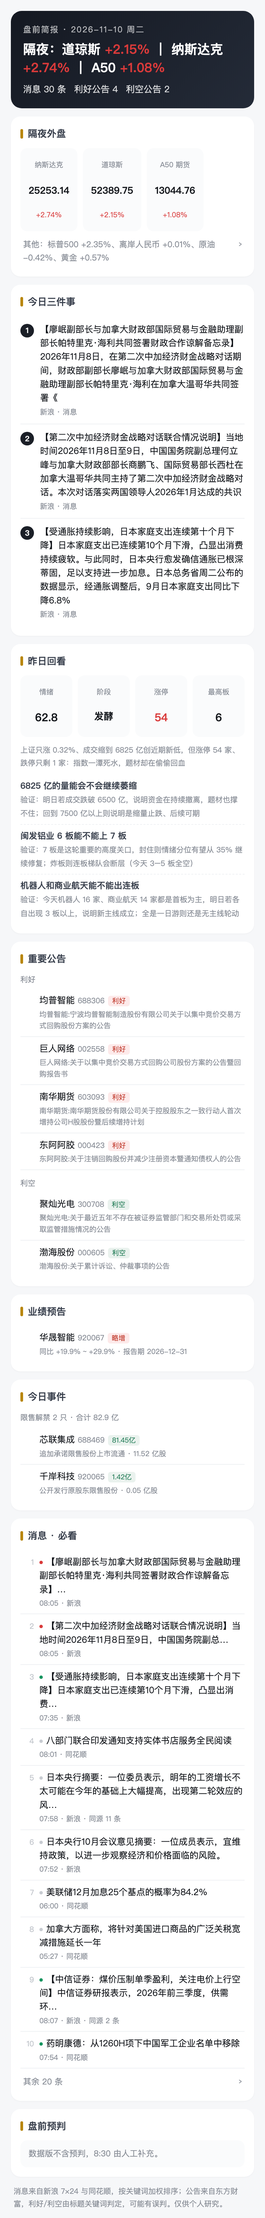
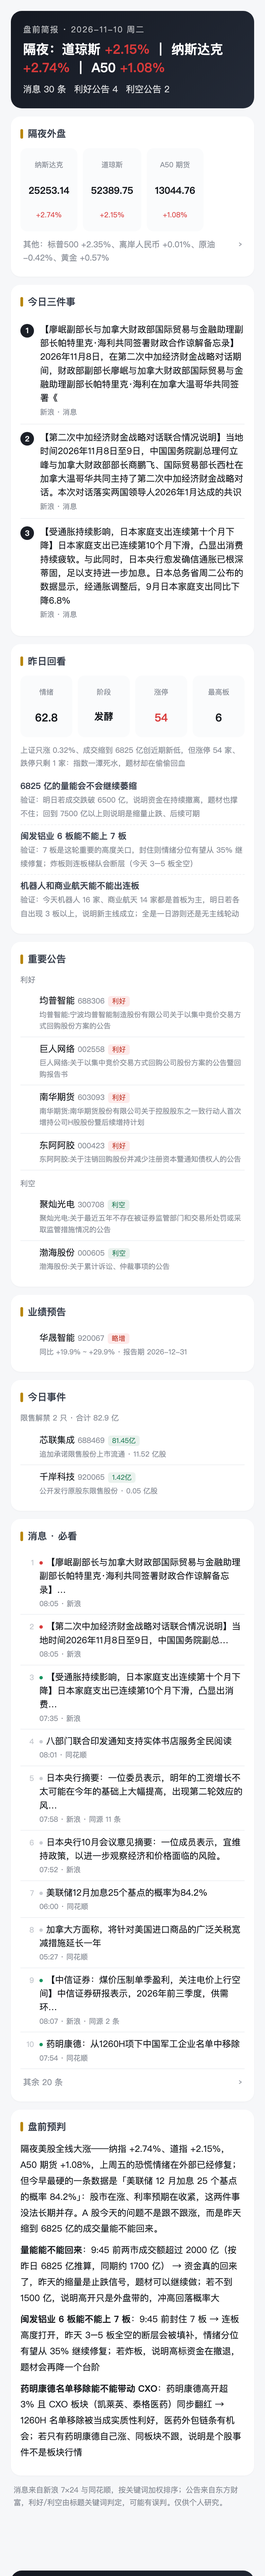
report: 2026-11-09

Changed region(s): [[0.0308, 0.0, 0.9538, 1.0], [0.8615, 0.4675, 0.8923, 0.4987], [0.7385, 0.4675, 0.7692, 0.4987]]

diff --git a/pre/2026-11-10/2026-11-10-盘前.html b/pre/2026-11-10/2026-11-10-盘前.html
@@ -57,4 +57,4 @@ padding:9px 16px;font-size:12.5px;max-width:560px;margin:0 auto}
 .nav a{color:#8a8f98;text-decoration:none;white-space:nowrap}
 .nav a.on{color:#1b1f27;font-weight:700}
 .nav a.home{color:#b8860b;font-weight:600}
-</style><link rel="manifest" href="/a-share-review/manifest.webmanifest"><meta name="theme-color" content="#1b1f27"><meta name="apple-mobile-web-app-capable" content="yes"><meta name="apple-mobile-web-app-status-bar-style" content="black-translucent"><meta name="apple-mobile-web-app-title" content="A股复盘"><link rel="apple-touch-icon" href="/a-share-review/icon-192.png"></head><body><div class="nav"><a class="home" href="../../index.html">⌂ 首页</a><a class="on" href="../../pre/index.html">盘前简报</a></div><div class="wrap"><div class="hero"><div class="d">盘前简报 · 2026-11-10 周二</div><h1>隔夜：道琼斯 <b class="up">+2.15%</b> ｜ 纳斯达克 <b class="up">+2.74%</b> ｜ A50 <b class="up">+1.08%</b></h1><div class="sum"><span>消息 30 条</span><span>利好公告 4</span><span>利空公告 2</span></div></div><div class="card"><h2>隔夜外盘</h2><div class="ov"><div><div class="n">纳斯达克</div><div class="v">25253.14</div><div class="p up">+2.74%</div></div><div><div class="n">道琼斯</div><div class="v">52389.75</div><div class="p up">+2.15%</div></div><div><div class="n">A50 期货</div><div class="v">13044.76</div><div class="p up">+1.08%</div></div></div><details class="more"><summary><span>其他：标普500 +2.35%、离岸人民币 +0.01%、原油 -0.42%、黄金 +0.57%</span><span class="arw">›</span></summary><div class="ov" style="margin-top:8px"><div><div class="n">标普500</div><div class="v">7549.94</div><div class="p up">+2.35%</div></div><div><div class="n">离岸人民币</div><div class="v">6.67</div><div class="p up">+0.01%</div></div><div><div class="n">原油</div><div class="v">86.48</div><div class="p down">-0.42%</div></div><div><div class="n">黄金</div><div class="v">4137.96</div><div class="p up">+0.57%</div></div></div></details></div><div class="card"><h2>今日三件事</h2><div class="t3"><div class="n">1</div><div><div class="t">【廖岷副部长与加拿大财政部国际贸易与金融助理副部长帕特里克·海利共同签署财政合作谅解备忘录】2026年11月8日，在第二次中加经济财金战略对话期间，财政部副部长廖岷与加拿大财政部国际贸易与金融助理副部长帕特里克·海利在加拿大温哥华共同签署《</div><div class="s">新浪 · 消息</div></div></div><div class="t3"><div class="n">2</div><div><div class="t">【第二次中加经济财金战略对话联合情况说明】当地时间2026年11月8日至9日，中国国务院副总理何立峰与加拿大财政部部长商鹏飞、国际贸易部长西杜在加拿大温哥华共同主持了第二次中加经济财金战略对话。本次对话落实两国领导人2026年1月达成的共识</div><div class="s">新浪 · 消息</div></div></div><div class="t3"><div class="n">3</div><div><div class="t">【受通胀持续影响，日本家庭支出连续第十个月下降】日本家庭支出已连续第10个月下滑，凸显出消费持续疲软。与此同时，日本央行愈发确信通胀已根深蒂固，足以支持进一步加息。日本总务省周二公布的数据显示，经通胀调整后，9月日本家庭支出同比下降6.8%</div><div class="s">新浪 · 消息</div></div></div></div><div class="card"><h2>昨日回看</h2><div class="kv"><div><div class="n">情绪</div><div class="v">62.8</div></div><div><div class="n">阶段</div><div class="v" style="font-size:14px">发酵</div></div><div><div class="n">涨停</div><div class="v up">54</div></div><div><div class="n">最高板</div><div class="v">6</div></div></div><div class="note" style="margin-bottom:8px">上证只涨 0.32%、成交缩到 6825 亿创近期新低，但涨停 54 家、跌停只剩 1 家：指数一潭死水，题材却在偷偷回血</div><div class="watch"><b>6825 亿的量能会不会继续萎缩</b><br><span class="note">验证：明日若成交跌破 6500 亿，说明资金在持续撤离，题材也撑不住；回到 7500 亿以上则说明是缩量止跌、后续可期</span></div><div class="watch"><b>闽发铝业 6 板能不能上 7 板</b><br><span class="note">验证：7 板是这轮重要的高度关口，封住则情绪分位有望从 35% 继续修复；炸板则连板梯队会断层（今天 3–5 板全空）</span></div><div class="watch"><b>机器人和商业航天能不能出连板</b><br><span class="note">验证：今天机器人 16 家、商业航天 14 家都是首板为主，明日若各自出现 3 板以上，说明新主线成立；全是一日游则还是无主线轮动</span></div></div><div class="card"><h2>重要公告</h2><div class="note" style="margin-bottom:4px">利好</div><div class="item"><div class="no"></div><div class="b"><div class="t">均普智能 <span class="mut" style="font-size:11px">688306</span><span class="tag tag-good">利好</span></div><div class="m">均普智能:宁波均普智能制造股份有限公司关于以集中竞价交易方式回购股份方案的公告</div></div></div><div class="item"><div class="no"></div><div class="b"><div class="t">巨人网络 <span class="mut" style="font-size:11px">002558</span><span class="tag tag-good">利好</span></div><div class="m">巨人网络:关于以集中竞价交易方式回购公司股份方案的公告暨回购报告书</div></div></div><div class="item"><div class="no"></div><div class="b"><div class="t">南华期货 <span class="mut" style="font-size:11px">603093</span><span class="tag tag-good">利好</span></div><div class="m">南华期货:南华期货股份有限公司关于控股股东之一致行动人首次增持公司H股股份暨后续增持计划</div></div></div><div class="item"><div class="no"></div><div class="b"><div class="t">东阿阿胶 <span class="mut" style="font-size:11px">000423</span><span class="tag tag-good">利好</span></div><div class="m">东阿阿胶:关于注销回购股份并减少注册资本暨通知债权人的公告</div></div></div><div class="note" style="margin:10px 0 4px">利空</div><div class="item"><div class="no"></div><div class="b"><div class="t">聚灿光电 <span class="mut" style="font-size:11px">300708</span><span class="tag tag-bad">利空</span></div><div class="m">聚灿光电:关于最近五年不存在被证券监管部门和交易所处罚或采取监管措施情况的公告</div></div></div><div class="item"><div class="no"></div><div class="b"><div class="t">渤海股份 <span class="mut" style="font-size:11px">000605</span><span class="tag tag-bad">利空</span></div><div class="m">渤海股份:关于累计诉讼、仲裁事项的公告</div></div></div></div><div class="card"><h2>业绩预告</h2><div class="item"><div class="no"></div><div class="b"><div class="t">华晟智能 <span class="mut" style="font-size:11px">920067</span><span class="tag tag-good">略增</span></div><div class="m">同比 +19.9% ~ +29.9% · 报告期 2026-12-31</div></div></div></div><div class="card"><h2>今日事件</h2><div class="note" style="margin-bottom:6px">限售解禁 2 只 · 合计 82.9 亿</div><div class="item"><div class="no"></div><div class="b"><div class="t">芯联集成 <span class="mut" style="font-size:11px">688469</span><span class="tag tag-bad">81.45亿</span></div><div class="m">追加承诺限售股份上市流通 · 11.52 亿股</div></div></div><div class="item"><div class="no"></div><div class="b"><div class="t">千岸科技 <span class="mut" style="font-size:11px">920065</span><span class="tag tag-bad">1.42亿</span></div><div class="m">公开发行原股东限售股份 · 0.05 亿股</div></div></div></div><div class="card"><h2>消息 · 必看</h2><div class="item"><div class="no">1</div><div class="b"><div class="t"><span class="dot g"></span>【廖岷副部长与加拿大财政部国际贸易与金融助理副部长帕特里克·海利共同签署财政合作谅解备忘录】…</div><div class="m">08:05 · 新浪</div></div></div><div class="item"><div class="no">2</div><div class="b"><div class="t"><span class="dot g"></span>【第二次中加经济财金战略对话联合情况说明】当地时间2026年11月8日至9日，中国国务院副总…</div><div class="m">08:05 · 新浪</div></div></div><div class="item"><div class="no">3</div><div class="b"><div class="t"><span class="dot b2"></span>【受通胀持续影响，日本家庭支出连续第十个月下降】日本家庭支出已连续第10个月下滑，凸显出消费…</div><div class="m">07:35 · 新浪</div></div></div><div class="item"><div class="no">4</div><div class="b"><div class="t"><span class="dot n"></span>八部门联合印发通知支持实体书店服务全民阅读</div><div class="m">08:01 · 同花顺</div></div></div><div class="item"><div class="no">5</div><div class="b"><div class="t"><span class="dot n"></span>日本央行摘要：一位委员表示，明年的工资增长不太可能在今年的基础上大幅提高，出现第二轮效应的风…</div><div class="m">07:58 · 新浪 · 同源 11 条</div></div></div><div class="item"><div class="no">6</div><div class="b"><div class="t"><span class="dot n"></span>日本央行10月会议意见摘要：一位成员表示，宜维持政策，以进一步观察经济和价格面临的风险。</div><div class="m">07:52 · 新浪</div></div></div><div class="item"><div class="no">7</div><div class="b"><div class="t"><span class="dot n"></span>美联储12月加息25个基点的概率为84.2%</div><div class="m">06:00 · 同花顺</div></div></div><div class="item"><div class="no">8</div><div class="b"><div class="t"><span class="dot n"></span>加拿大方面称，将针对美国进口商品的广泛关税宽减措施延长一年</div><div class="m">05:27 · 同花顺</div></div></div><div class="item"><div class="no">9</div><div class="b"><div class="t"><span class="dot b2"></span>【中信证券：煤价压制单季盈利，关注电价上行空间】中信证券研报表示，2026年前三季度，供需环…</div><div class="m">08:07 · 新浪 · 同源 2 条</div></div></div><div class="item"><div class="no">10</div><div class="b"><div class="t"><span class="dot b2"></span>药明康德：从1260H项下中国军工企业名单中移除</div><div class="m">07:54 · 同花顺</div></div></div><details class="more"><summary><span>其余 20 条</span><span class="arw">›</span></summary><div class="item"><div class="no">11</div><div class="b"><div class="t"><span class="dot g"></span>新材料订单撑起利润韧性 “中原制造”锻造新增长支点</div><div class="m">07:28 · 同花顺</div></div></div><div class="item"><div class="no">12</div><div class="b"><div class="t"><span class="dot g"></span>QFII优化持仓 配置指向产业升级</div><div class="m">07:14 · 同花顺</div></div></div><div class="item"><div class="no">13</div><div class="b"><div class="t"><span class="dot g"></span>剑桥科技回应“砍单”传闻 称已为明年大批量交付做好准备</div><div class="m">06:12 · 同花顺</div></div></div><div class="item"><div class="no">14</div><div class="b"><div class="t"><span class="dot g"></span>回购增持接力稳市 AI产业链公司频出手</div><div class="m">06:08 · 同花顺</div></div></div><div class="item"><div class="no">15</div><div class="b"><div class="t"><span class="dot g"></span>泛林集团获批250亿美元股票回购计划，宣布每股0.33美元季度股息</div><div class="m">05:17 · 同花顺</div></div></div><div class="item"><div class="no">16</div><div class="b"><div class="t"><span class="dot g"></span>互换便利操作说干就干 多家券商完成首批股票买入</div><div class="m">06:10 · 同花顺</div></div></div><div class="item"><div class="no">17</div><div class="b"><div class="t"><span class="dot n"></span>【中金公司：卡位交互入口，Agent时代硬件迎创新机遇】中金公司研报表示，随着个人Agent…</div><div class="m">08:14 · 新浪</div></div></div><div class="item"><div class="no">18</div><div class="b"><div class="t"><span class="dot n"></span>Anthropic将冲刺下周IPO</div><div class="m">07:54 · 同花顺</div></div></div><div class="item"><div class="no">19</div><div class="b"><div class="t"><span class="dot n"></span>美股收评：美股三大指数集体收涨</div><div class="m">05:00 · 同花顺</div></div></div><div class="item"><div class="no">20</div><div class="b"><div class="t"><span class="dot g"></span>埃克森美孚公司表示，已签署谅解备忘录，以评估与委内瑞拉及委内瑞拉国家石油公司（PDVSA）的…</div><div class="m">07:50 · 新浪</div></div></div><div class="item"><div class="no">21</div><div class="b"><div class="t"><span class="dot g"></span>中证报：公开市场灵活“削峰填谷”，呵护流动性充裕</div><div class="m">06:48 · 同花顺</div></div></div><div class="item"><div class="no">22</div><div class="b"><div class="t"><span class="dot b2"></span>英国最大水务企业推出新一轮债务融资以自救</div><div class="m">05:49 · 同花顺</div></div></div><div class="item"><div class="no">23</div><div class="b"><div class="t"><span class="dot g"></span>数字技术撬动汽车消费服务产业链</div><div class="m">05:44 · 同花顺</div></div></div><div class="item"><div class="no">24</div><div class="b"><div class="t"><span class="dot b2"></span>特朗普媒体与科技集团第三财季营收为300万美元，调整后EBITDA亏损1230万美元</div><div class="m">05:12 · 同花顺</div></div></div><div class="item"><div class="no">25</div><div class="b"><div class="t"><span class="dot b2"></span>Hims &amp; Hers Health预计全财年营收为31.3亿至31.5亿美元</div><div class="m">05:11 · 同花顺</div></div></div><div class="item"><div class="no">26</div><div class="b"><div class="t"><span class="dot b2"></span>Rocket Lab预计第四财季营收为2.7亿至2.9亿美元</div><div class="m">05:09 · 同花顺</div></div></div><div class="item"><div class="no">27</div><div class="b"><div class="t"><span class="dot b2"></span>AMC Global Media第三财季净营收5.661亿美元</div><div class="m">05:08 · 同花顺</div></div></div><div class="item"><div class="no">28</div><div class="b"><div class="t"><span class="dot b2"></span>Lucid第三财季调整后每股亏损为2.30美元</div><div class="m">05:08 · 同花顺</div></div></div><div class="item"><div class="no">29</div><div class="b"><div class="t"><span class="dot n"></span>软银等日本芯片股上涨，涨幅一度达到12%。</div><div class="m">08:18 · 新浪</div></div></div><div class="item"><div class="no">30</div><div class="b"><div class="t"><span class="dot n"></span>【中信建投：高油价和AI带动下新能源高景气仍将持续】中信建投研报表示，26年在储能、AIDC…</div><div class="m">08:13 · 新浪</div></div></div></details></div><div class="card"><h2>盘前预判</h2><div class="empty">数据版不含预判，8:30 由人工补充。</div></div><div class="note" style="padding:0 4px">消息来自新浪 7×24 与同花顺，按关键词加权排序；公告来自东方财富，利好/利空由标题关键词判定，可能有误判。仅供个人研究。</div></div></body></html>
+</style><link rel="manifest" href="/a-share-review/manifest.webmanifest"><meta name="theme-color" content="#1b1f27"><meta name="apple-mobile-web-app-capable" content="yes"><meta name="apple-mobile-web-app-status-bar-style" content="black-translucent"><meta name="apple-mobile-web-app-title" content="A股复盘"><link rel="apple-touch-icon" href="/a-share-review/icon-192.png"></head><body><div class="nav"><a class="home" href="../../index.html">⌂ 首页</a><a class="on" href="../../pre/index.html">盘前简报</a></div><div class="wrap"><div class="hero"><div class="d">盘前简报 · 2026-11-10 周二</div><h1>隔夜：道琼斯 <b class="up">+2.15%</b> ｜ 纳斯达克 <b class="up">+2.74%</b> ｜ A50 <b class="up">+1.08%</b></h1><div class="sum"><span>消息 30 条</span><span>利好公告 4</span><span>利空公告 2</span></div></div><div class="card"><h2>隔夜外盘</h2><div class="ov"><div><div class="n">纳斯达克</div><div class="v">25253.14</div><div class="p up">+2.74%</div></div><div><div class="n">道琼斯</div><div class="v">52389.75</div><div class="p up">+2.15%</div></div><div><div class="n">A50 期货</div><div class="v">13044.76</div><div class="p up">+1.08%</div></div></div><details class="more"><summary><span>其他：标普500 +2.35%、离岸人民币 +0.01%、原油 -0.42%、黄金 +0.57%</span><span class="arw">›</span></summary><div class="ov" style="margin-top:8px"><div><div class="n">标普500</div><div class="v">7549.94</div><div class="p up">+2.35%</div></div><div><div class="n">离岸人民币</div><div class="v">6.67</div><div class="p up">+0.01%</div></div><div><div class="n">原油</div><div class="v">86.48</div><div class="p down">-0.42%</div></div><div><div class="n">黄金</div><div class="v">4137.96</div><div class="p up">+0.57%</div></div></div></details></div><div class="card"><h2>今日三件事</h2><div class="t3"><div class="n">1</div><div><div class="t">【廖岷副部长与加拿大财政部国际贸易与金融助理副部长帕特里克·海利共同签署财政合作谅解备忘录】2026年11月8日，在第二次中加经济财金战略对话期间，财政部副部长廖岷与加拿大财政部国际贸易与金融助理副部长帕特里克·海利在加拿大温哥华共同签署《</div><div class="s">新浪 · 消息</div></div></div><div class="t3"><div class="n">2</div><div><div class="t">【第二次中加经济财金战略对话联合情况说明】当地时间2026年11月8日至9日，中国国务院副总理何立峰与加拿大财政部部长商鹏飞、国际贸易部长西杜在加拿大温哥华共同主持了第二次中加经济财金战略对话。本次对话落实两国领导人2026年1月达成的共识</div><div class="s">新浪 · 消息</div></div></div><div class="t3"><div class="n">3</div><div><div class="t">【受通胀持续影响，日本家庭支出连续第十个月下降】日本家庭支出已连续第10个月下滑，凸显出消费持续疲软。与此同时，日本央行愈发确信通胀已根深蒂固，足以支持进一步加息。日本总务省周二公布的数据显示，经通胀调整后，9月日本家庭支出同比下降6.8%</div><div class="s">新浪 · 消息</div></div></div></div><div class="card"><h2>昨日回看</h2><div class="kv"><div><div class="n">情绪</div><div class="v">62.8</div></div><div><div class="n">阶段</div><div class="v" style="font-size:14px">发酵</div></div><div><div class="n">涨停</div><div class="v up">54</div></div><div><div class="n">最高板</div><div class="v">6</div></div></div><div class="note" style="margin-bottom:8px">上证只涨 0.32%、成交缩到 6825 亿创近期新低，但涨停 54 家、跌停只剩 1 家：指数一潭死水，题材却在偷偷回血</div><div class="watch"><b>6825 亿的量能会不会继续萎缩</b><br><span class="note">验证：明日若成交跌破 6500 亿，说明资金在持续撤离，题材也撑不住；回到 7500 亿以上则说明是缩量止跌、后续可期</span></div><div class="watch"><b>闽发铝业 6 板能不能上 7 板</b><br><span class="note">验证：7 板是这轮重要的高度关口，封住则情绪分位有望从 35% 继续修复；炸板则连板梯队会断层（今天 3–5 板全空）</span></div><div class="watch"><b>机器人和商业航天能不能出连板</b><br><span class="note">验证：今天机器人 16 家、商业航天 14 家都是首板为主，明日若各自出现 3 板以上，说明新主线成立；全是一日游则还是无主线轮动</span></div></div><div class="card"><h2>重要公告</h2><div class="note" style="margin-bottom:4px">利好</div><div class="item"><div class="no"></div><div class="b"><div class="t">均普智能 <span class="mut" style="font-size:11px">688306</span><span class="tag tag-good">利好</span></div><div class="m">均普智能:宁波均普智能制造股份有限公司关于以集中竞价交易方式回购股份方案的公告</div></div></div><div class="item"><div class="no"></div><div class="b"><div class="t">巨人网络 <span class="mut" style="font-size:11px">002558</span><span class="tag tag-good">利好</span></div><div class="m">巨人网络:关于以集中竞价交易方式回购公司股份方案的公告暨回购报告书</div></div></div><div class="item"><div class="no"></div><div class="b"><div class="t">南华期货 <span class="mut" style="font-size:11px">603093</span><span class="tag tag-good">利好</span></div><div class="m">南华期货:南华期货股份有限公司关于控股股东之一致行动人首次增持公司H股股份暨后续增持计划</div></div></div><div class="item"><div class="no"></div><div class="b"><div class="t">东阿阿胶 <span class="mut" style="font-size:11px">000423</span><span class="tag tag-good">利好</span></div><div class="m">东阿阿胶:关于注销回购股份并减少注册资本暨通知债权人的公告</div></div></div><div class="note" style="margin:10px 0 4px">利空</div><div class="item"><div class="no"></div><div class="b"><div class="t">聚灿光电 <span class="mut" style="font-size:11px">300708</span><span class="tag tag-bad">利空</span></div><div class="m">聚灿光电:关于最近五年不存在被证券监管部门和交易所处罚或采取监管措施情况的公告</div></div></div><div class="item"><div class="no"></div><div class="b"><div class="t">渤海股份 <span class="mut" style="font-size:11px">000605</span><span class="tag tag-bad">利空</span></div><div class="m">渤海股份:关于累计诉讼、仲裁事项的公告</div></div></div></div><div class="card"><h2>业绩预告</h2><div class="item"><div class="no"></div><div class="b"><div class="t">华晟智能 <span class="mut" style="font-size:11px">920067</span><span class="tag tag-good">略增</span></div><div class="m">同比 +19.9% ~ +29.9% · 报告期 2026-12-31</div></div></div></div><div class="card"><h2>今日事件</h2><div class="note" style="margin-bottom:6px">限售解禁 2 只 · 合计 82.9 亿</div><div class="item"><div class="no"></div><div class="b"><div class="t">芯联集成 <span class="mut" style="font-size:11px">688469</span><span class="tag tag-bad">81.45亿</span></div><div class="m">追加承诺限售股份上市流通 · 11.52 亿股</div></div></div><div class="item"><div class="no"></div><div class="b"><div class="t">千岸科技 <span class="mut" style="font-size:11px">920065</span><span class="tag tag-bad">1.42亿</span></div><div class="m">公开发行原股东限售股份 · 0.05 亿股</div></div></div></div><div class="card"><h2>消息 · 必看</h2><div class="item"><div class="no">1</div><div class="b"><div class="t"><span class="dot g"></span>【廖岷副部长与加拿大财政部国际贸易与金融助理副部长帕特里克·海利共同签署财政合作谅解备忘录】…</div><div class="m">08:05 · 新浪</div></div></div><div class="item"><div class="no">2</div><div class="b"><div class="t"><span class="dot g"></span>【第二次中加经济财金战略对话联合情况说明】当地时间2026年11月8日至9日，中国国务院副总…</div><div class="m">08:05 · 新浪</div></div></div><div class="item"><div class="no">3</div><div class="b"><div class="t"><span class="dot b2"></span>【受通胀持续影响，日本家庭支出连续第十个月下降】日本家庭支出已连续第10个月下滑，凸显出消费…</div><div class="m">07:35 · 新浪</div></div></div><div class="item"><div class="no">4</div><div class="b"><div class="t"><span class="dot n"></span>八部门联合印发通知支持实体书店服务全民阅读</div><div class="m">08:01 · 同花顺</div></div></div><div class="item"><div class="no">5</div><div class="b"><div class="t"><span class="dot n"></span>日本央行摘要：一位委员表示，明年的工资增长不太可能在今年的基础上大幅提高，出现第二轮效应的风…</div><div class="m">07:58 · 新浪 · 同源 11 条</div></div></div><div class="item"><div class="no">6</div><div class="b"><div class="t"><span class="dot n"></span>日本央行10月会议意见摘要：一位成员表示，宜维持政策，以进一步观察经济和价格面临的风险。</div><div class="m">07:52 · 新浪</div></div></div><div class="item"><div class="no">7</div><div class="b"><div class="t"><span class="dot n"></span>美联储12月加息25个基点的概率为84.2%</div><div class="m">06:00 · 同花顺</div></div></div><div class="item"><div class="no">8</div><div class="b"><div class="t"><span class="dot n"></span>加拿大方面称，将针对美国进口商品的广泛关税宽减措施延长一年</div><div class="m">05:27 · 同花顺</div></div></div><div class="item"><div class="no">9</div><div class="b"><div class="t"><span class="dot b2"></span>【中信证券：煤价压制单季盈利，关注电价上行空间】中信证券研报表示，2026年前三季度，供需环…</div><div class="m">08:07 · 新浪 · 同源 2 条</div></div></div><div class="item"><div class="no">10</div><div class="b"><div class="t"><span class="dot b2"></span>药明康德：从1260H项下中国军工企业名单中移除</div><div class="m">07:54 · 同花顺</div></div></div><details class="more"><summary><span>其余 20 条</span><span class="arw">›</span></summary><div class="item"><div class="no">11</div><div class="b"><div class="t"><span class="dot g"></span>新材料订单撑起利润韧性 “中原制造”锻造新增长支点</div><div class="m">07:28 · 同花顺</div></div></div><div class="item"><div class="no">12</div><div class="b"><div class="t"><span class="dot g"></span>QFII优化持仓 配置指向产业升级</div><div class="m">07:14 · 同花顺</div></div></div><div class="item"><div class="no">13</div><div class="b"><div class="t"><span class="dot g"></span>剑桥科技回应“砍单”传闻 称已为明年大批量交付做好准备</div><div class="m">06:12 · 同花顺</div></div></div><div class="item"><div class="no">14</div><div class="b"><div class="t"><span class="dot g"></span>回购增持接力稳市 AI产业链公司频出手</div><div class="m">06:08 · 同花顺</div></div></div><div class="item"><div class="no">15</div><div class="b"><div class="t"><span class="dot g"></span>泛林集团获批250亿美元股票回购计划，宣布每股0.33美元季度股息</div><div class="m">05:17 · 同花顺</div></div></div><div class="item"><div class="no">16</div><div class="b"><div class="t"><span class="dot g"></span>互换便利操作说干就干 多家券商完成首批股票买入</div><div class="m">06:10 · 同花顺</div></div></div><div class="item"><div class="no">17</div><div class="b"><div class="t"><span class="dot n"></span>【中金公司：卡位交互入口，Agent时代硬件迎创新机遇】中金公司研报表示，随着个人Agent…</div><div class="m">08:14 · 新浪</div></div></div><div class="item"><div class="no">18</div><div class="b"><div class="t"><span class="dot n"></span>Anthropic将冲刺下周IPO</div><div class="m">07:54 · 同花顺</div></div></div><div class="item"><div class="no">19</div><div class="b"><div class="t"><span class="dot n"></span>美股收评：美股三大指数集体收涨</div><div class="m">05:00 · 同花顺</div></div></div><div class="item"><div class="no">20</div><div class="b"><div class="t"><span class="dot g"></span>埃克森美孚公司表示，已签署谅解备忘录，以评估与委内瑞拉及委内瑞拉国家石油公司（PDVSA）的…</div><div class="m">07:50 · 新浪</div></div></div><div class="item"><div class="no">21</div><div class="b"><div class="t"><span class="dot g"></span>中证报：公开市场灵活“削峰填谷”，呵护流动性充裕</div><div class="m">06:48 · 同花顺</div></div></div><div class="item"><div class="no">22</div><div class="b"><div class="t"><span class="dot b2"></span>英国最大水务企业推出新一轮债务融资以自救</div><div class="m">05:49 · 同花顺</div></div></div><div class="item"><div class="no">23</div><div class="b"><div class="t"><span class="dot g"></span>数字技术撬动汽车消费服务产业链</div><div class="m">05:44 · 同花顺</div></div></div><div class="item"><div class="no">24</div><div class="b"><div class="t"><span class="dot b2"></span>特朗普媒体与科技集团第三财季营收为300万美元，调整后EBITDA亏损1230万美元</div><div class="m">05:12 · 同花顺</div></div></div><div class="item"><div class="no">25</div><div class="b"><div class="t"><span class="dot b2"></span>Hims &amp; Hers Health预计全财年营收为31.3亿至31.5亿美元</div><div class="m">05:11 · 同花顺</div></div></div><div class="item"><div class="no">26</div><div class="b"><div class="t"><span class="dot b2"></span>Rocket Lab预计第四财季营收为2.7亿至2.9亿美元</div><div class="m">05:09 · 同花顺</div></div></div><div class="item"><div class="no">27</div><div class="b"><div class="t"><span class="dot b2"></span>AMC Global Media第三财季净营收5.661亿美元</div><div class="m">05:08 · 同花顺</div></div></div><div class="item"><div class="no">28</div><div class="b"><div class="t"><span class="dot b2"></span>Lucid第三财季调整后每股亏损为2.30美元</div><div class="m">05:08 · 同花顺</div></div></div><div class="item"><div class="no">29</div><div class="b"><div class="t"><span class="dot n"></span>软银等日本芯片股上涨，涨幅一度达到12%。</div><div class="m">08:18 · 新浪</div></div></div><div class="item"><div class="no">30</div><div class="b"><div class="t"><span class="dot n"></span>【中信建投：高油价和AI带动下新能源高景气仍将持续】中信建投研报表示，26年在储能、AIDC…</div><div class="m">08:13 · 新浪</div></div></div></details></div><div class="card"><h2>盘前预判</h2><div class="jd"><p>隔夜美股全线大涨——纳指 +2.74%、道指 +2.15%，A50 期货 +1.08%，上周五的恐慌情绪在外部已经修复；但今早最硬的一条数据是「美联储 12 月加息 25 个基点的概率 84.2%」：股市在涨、利率预期在收紧，这两件事没法长期并存。A 股今天的问题不是跟不跟涨，而是昨天缩到 6825 亿的成交量能不能回来。</p><p><b>量能能不能回来</b>：9:45 前两市成交额超过 2000 亿（按昨日 6825 亿推算，同期约 1700 亿） → 资金真的回来了，昨天的缩量是止跌信号，题材可以继续做；若不到 1500 亿，说明高开只是外盘带的，冲高回落概率大</p><p><b>闽发铝业 6 板能不能上 7 板</b>：9:45 前封住 7 板 → 连板高度打开，昨天 3–5 板全空的断层会被填补，情绪分位有望从 35% 继续修复；若炸板，说明高标资金在撤退，题材会再降一个台阶</p><p><b>药明康德名单移除能不能带动 CXO</b>：药明康德高开超 3% 且 CXO 板块（凯莱英、泰格医药）同步翻红 → 1260H 名单移除被当成实质性利好，医药外包链条有机会；若只有药明康德自己涨、同板块不跟，说明是个股事件不是板块行情</p></div></div><div class="note" style="padding:0 4px">消息来自新浪 7×24 与同花顺，按关键词加权排序；公告来自东方财富，利好/利空由标题关键词判定，可能有误判。仅供个人研究。</div></div></body></html>

diff --git a/pre/index.html b/pre/index.html
@@ -47,6 +47,6 @@ padding-bottom:env(safe-area-inset-bottom)}
 .tabbar a.on::after{content:"";display:block;width:18px;height:2.5px;border-radius:2px;background:var(--gold);margin:5px auto 0}
 </style><link rel="manifest" href="/a-share-review/manifest.webmanifest"><meta name="theme-color" content="#1b1f27"><meta name="apple-mobile-web-app-capable" content="yes"><meta name="apple-mobile-web-app-status-bar-style" content="black-translucent"><meta name="apple-mobile-web-app-title" content="A股复盘"><link rel="apple-touch-icon" href="/a-share-review/icon-192.png"></head><body><div class="wrap">
 <div class="head"><h1>盘前简报</h1><div class="sub">共 7 篇 · 交易日 08:20</div></div>
-<a class="hero" href="2026-11-10/2026-11-10-盘前.html?v=1794270009"><div class="ht">最新盘前 · 2026-11-10</div><div class="hrow"><div><div class="hn">纳指</div><div class="hv up">+2.74%</div></div><div><div class="hn">道指</div><div class="hv up">+2.15%</div></div><div><div class="hn">A50</div><div class="hv up">+1.08%</div></div><div><div class="hn">消息</div><div class="hv">30</div></div></div><div class="hb">点开看完整盘前简报 →</div></a>
-<details class="month" open><summary><span><b>2026-11</b>　7 篇</span><span class="arw">›</span></summary><div class="list"><a class="row" href="2026-11-10/2026-11-10-盘前.html?v=1794270009"><div class="rl"><div class="rd">11-10</div><div class="rw">周二</div></div><div class="rm"><span class="k up">纳指 +2.74%</span><span class="k2">30 条消息</span></div></a><a class="row" href="2026-11-09/2026-11-09-盘前.html?v=1794194683"><div class="rl"><div class="rd">11-09</div><div class="rw">周一</div></div><div class="rm"><span class="k up">纳指 +1.09%</span><span class="k2">30 条消息</span><span class="tag2">预判</span></div></a><a class="row" href="2026-11-06/2026-11-06-盘前.html?v=1793928167"><div class="rl"><div class="rd">11-06</div><div class="rw">周五</div></div><div class="rm"><span class="k down">纳指 -5.52%</span><span class="k2">30 条消息</span><span class="tag2">预判</span></div></a><a class="row" href="2026-11-05/2026-11-05-盘前.html?v=1793928167"><div class="rl"><div class="rd">11-05</div><div class="rw">周四</div></div><div class="rm"><span class="k up">纳指 +1.44%</span><span class="k2">18 条消息</span><span class="tag2">预判</span></div></a><a class="row" href="2026-11-04/2026-11-04-盘前.html?v=1793928167"><div class="rl"><div class="rd">11-04</div><div class="rw">周三</div></div><div class="rm"><span class="k up">纳指 +0.83%</span><span class="k2">30 条消息</span><span class="tag2">预判</span></div></a><a class="row" href="2026-11-03/2026-11-03-盘前.html?v=1793928166"><div class="rl"><div class="rd">11-03</div><div class="rw">周二</div></div><div class="rm"><span class="k down">纳指 -1.07%</span><span class="k2">30 条消息</span><span class="tag2">预判</span></div></a><a class="row" href="2026-11-02/2026-11-02-盘前.html?v=1793928166"><div class="rl"><div class="rd">11-02</div><div class="rw">周一</div></div><div class="rm"><span class="k down">纳指 -2.86%</span><span class="k2">30 条消息</span></div></a></div></details>
+<a class="hero" href="2026-11-10/2026-11-10-盘前.html?v=1794270612"><div class="ht">最新盘前 · 2026-11-10</div><div class="hrow"><div><div class="hn">纳指</div><div class="hv up">+2.74%</div></div><div><div class="hn">道指</div><div class="hv up">+2.15%</div></div><div><div class="hn">A50</div><div class="hv up">+1.08%</div></div><div><div class="hn">消息</div><div class="hv">30</div></div></div><div class="hj">隔夜美股全线大涨——纳指 +2.74%、道指 +2.15%，A50 期货 +1.08%，上周五的恐慌情绪在外部已经修复；</div><div class="hb">点开看完整盘前简报 →</div></a>
+<details class="month" open><summary><span><b>2026-11</b>　7 篇</span><span class="arw">›</span></summary><div class="list"><a class="row" href="2026-11-10/2026-11-10-盘前.html?v=1794270612"><div class="rl"><div class="rd">11-10</div><div class="rw">周二</div></div><div class="rm"><span class="k up">纳指 +2.74%</span><span class="k2">30 条消息</span><span class="tag2">预判</span></div></a><a class="row" href="2026-11-09/2026-11-09-盘前.html?v=1794194683"><div class="rl"><div class="rd">11-09</div><div class="rw">周一</div></div><div class="rm"><span class="k up">纳指 +1.09%</span><span class="k2">30 条消息</span><span class="tag2">预判</span></div></a><a class="row" href="2026-11-06/2026-11-06-盘前.html?v=1793928167"><div class="rl"><div class="rd">11-06</div><div class="rw">周五</div></div><div class="rm"><span class="k down">纳指 -5.52%</span><span class="k2">30 条消息</span><span class="tag2">预判</span></div></a><a class="row" href="2026-11-05/2026-11-05-盘前.html?v=1793928167"><div class="rl"><div class="rd">11-05</div><div class="rw">周四</div></div><div class="rm"><span class="k up">纳指 +1.44%</span><span class="k2">18 条消息</span><span class="tag2">预判</span></div></a><a class="row" href="2026-11-04/2026-11-04-盘前.html?v=1793928167"><div class="rl"><div class="rd">11-04</div><div class="rw">周三</div></div><div class="rm"><span class="k up">纳指 +0.83%</span><span class="k2">30 条消息</span><span class="tag2">预判</span></div></a><a class="row" href="2026-11-03/2026-11-03-盘前.html?v=1793928166"><div class="rl"><div class="rd">11-03</div><div class="rw">周二</div></div><div class="rm"><span class="k down">纳指 -1.07%</span><span class="k2">30 条消息</span><span class="tag2">预判</span></div></a><a class="row" href="2026-11-02/2026-11-02-盘前.html?v=1793928166"><div class="rl"><div class="rd">11-02</div><div class="rw">周一</div></div><div class="rm"><span class="k down">纳指 -2.86%</span><span class="k2">30 条消息</span></div></a></div></details>
 </div><div class="tabbar"><a href="../index.html">每日复盘</a><a href="index.html" class="on">盘前简报</a><a href="../earn/index.html">业绩追踪</a></div></body></html>

diff --git a/index.html b/index.html
@@ -156,7 +156,7 @@ padding-bottom:env(safe-area-inset-bottom)}
   </div>
 </a></div></details>
 <div class="foot">数据与判断仅供个人研究，不构成投资建议<br>
-生成于 2026-11-10 08:20</div>
+生成于 2026-11-10 08:30</div>
 <div class="tabbar"><a href="index.html" class="on">每日复盘</a><a href="pre/index.html">盘前简报</a><a href="earn/index.html">业绩追踪</a></div>
 </div>
 <script>

diff --git a/pre/2026-11-10/2026-11-10-盘前.md b/pre/2026-11-10/2026-11-10-盘前.md
@@ -81,4 +81,8 @@
 
 ## 盘前预判
 
-> 8:30 由人工补充（数据版不含预判）。
+隔夜美股全线大涨——纳指 +2.74%、道指 +2.15%，A50 期货 +1.08%，上周五的恐慌情绪在外部已经修复；但今早最硬的一条数据是「美联储 12 月加息 25 个基点的概率 84.2%」：股市在涨、利率预期在收紧，这两件事没法长期并存。A 股今天的问题不是跟不跟涨，而是昨天缩到 6825 亿的成交量能不能回来。
+
+- **量能能不能回来**：9:45 前两市成交额超过 2000 亿（按昨日 6825 亿推算，同期约 1700 亿） → 资金真的回来了，昨天的缩量是止跌信号，题材可以继续做；若不到 1500 亿，说明高开只是外盘带的，冲高回落概率大
+- **闽发铝业 6 板能不能上 7 板**：9:45 前封住 7 板 → 连板高度打开，昨天 3–5 板全空的断层会被填补，情绪分位有望从 35% 继续修复；若炸板，说明高标资金在撤退，题材会再降一个台阶
+- **药明康德名单移除能不能带动 CXO**：药明康德高开超 3% 且 CXO 板块（凯莱英、泰格医药）同步翻红 → 1260H 名单移除被当成实质性利好，医药外包链条有机会；若只有药明康德自己涨、同板块不跟，说明是个股事件不是板块行情
